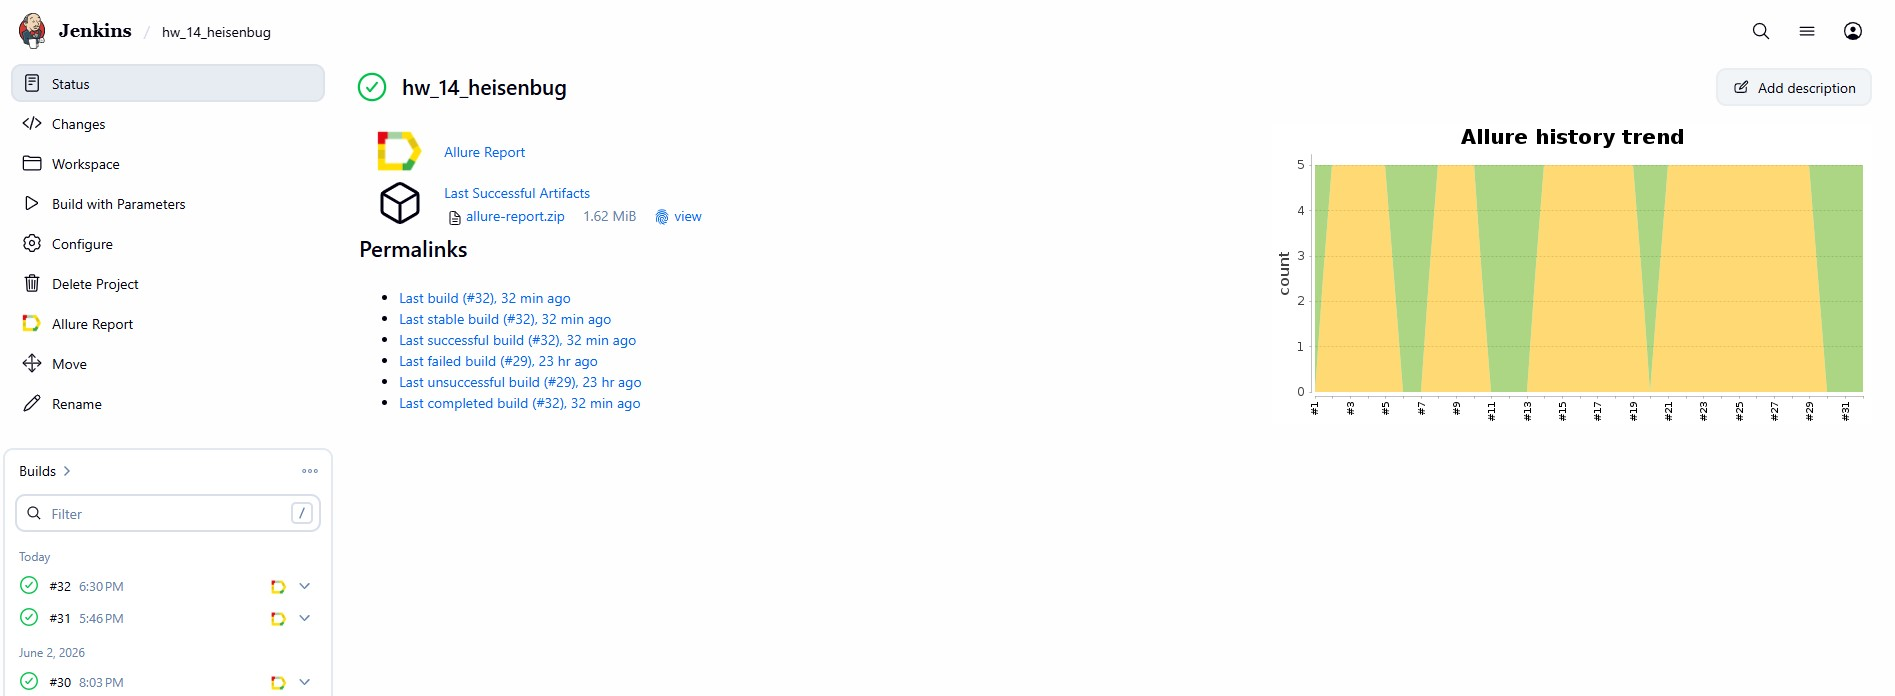
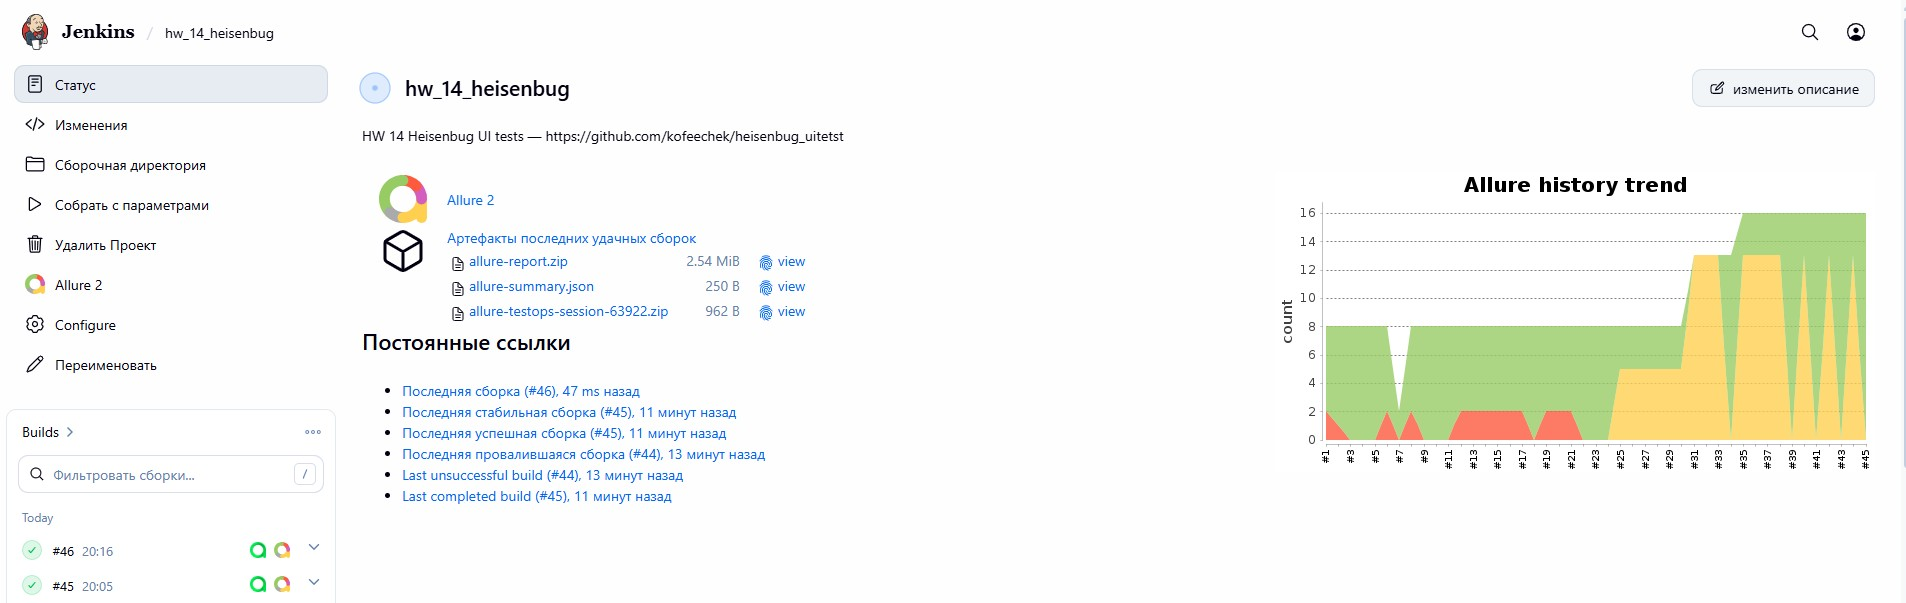
ReadMe refactoring

diff --git a/README.md b/README.md
@@ -54,7 +54,7 @@
 - Регитрация пользователя, новый пользователь
 
 
-##  <img width="40" style="vertical-align:middle" title="Jenkins" src="images/logo/Jenkins.svg">  Сборка в Jenkins
+##  <img width="40" style="vertical-align:middle" title="Jenkins" src="images/logo/Jenkins.svg">  [Сборка в Jenkins](https://jenkins.qa.guru/job/hw_14_heisenbug/)
 
 Для запуска сборки необходимо перейти в раздел <code>Buld with Parametrs</code>, выбрать параметры экрана, браузер и нажать кнопку <code>Build</code>.
 <p align="center">
@@ -62,7 +62,7 @@
 </p>
 
 ---
-## <img width="40" style="vertical-align:middle" title="Allure Report" src="images/logo/Allure.svg"> Мониторинг и отчетность
+## <img width="40" style="vertical-align:middle" title="Allure Report" src="images/logo/Allure.svg"> [Allure - интерактивные отчеты](https://jenkins.qa.guru/job/hw_14_heisenbug/46/allure/)
 
 После выполнения сборки, в блоке <code>История сборок</code> напротив номера сборки появятся значки <code>Allure Report</code>, при клике на которые откроется страница с сформированным html-отчетом и тестовой документацией соответственно.
 
@@ -75,7 +75,7 @@
 ---
 
 
-## <img width="40" style="vertical-align:middle" title="Allure Report" src="images/logo/Allure_TO.svg"> Система управления тест-кейсами TestOps
+## <img width="40" style="vertical-align:middle" title="Allure Report" src="images/logo/Allure_TO.svg"> Система управления тест-кейсами [TestOps](https://allure.qa.guru/launch/56270)
 
 В TestOps отображаются тест-кейсы, а также запуски со статусом выполнения в реальном времени. Статистика выполнения кейсов отображается на дашбордах, есть возможность настройки кастомных графиков.
 
